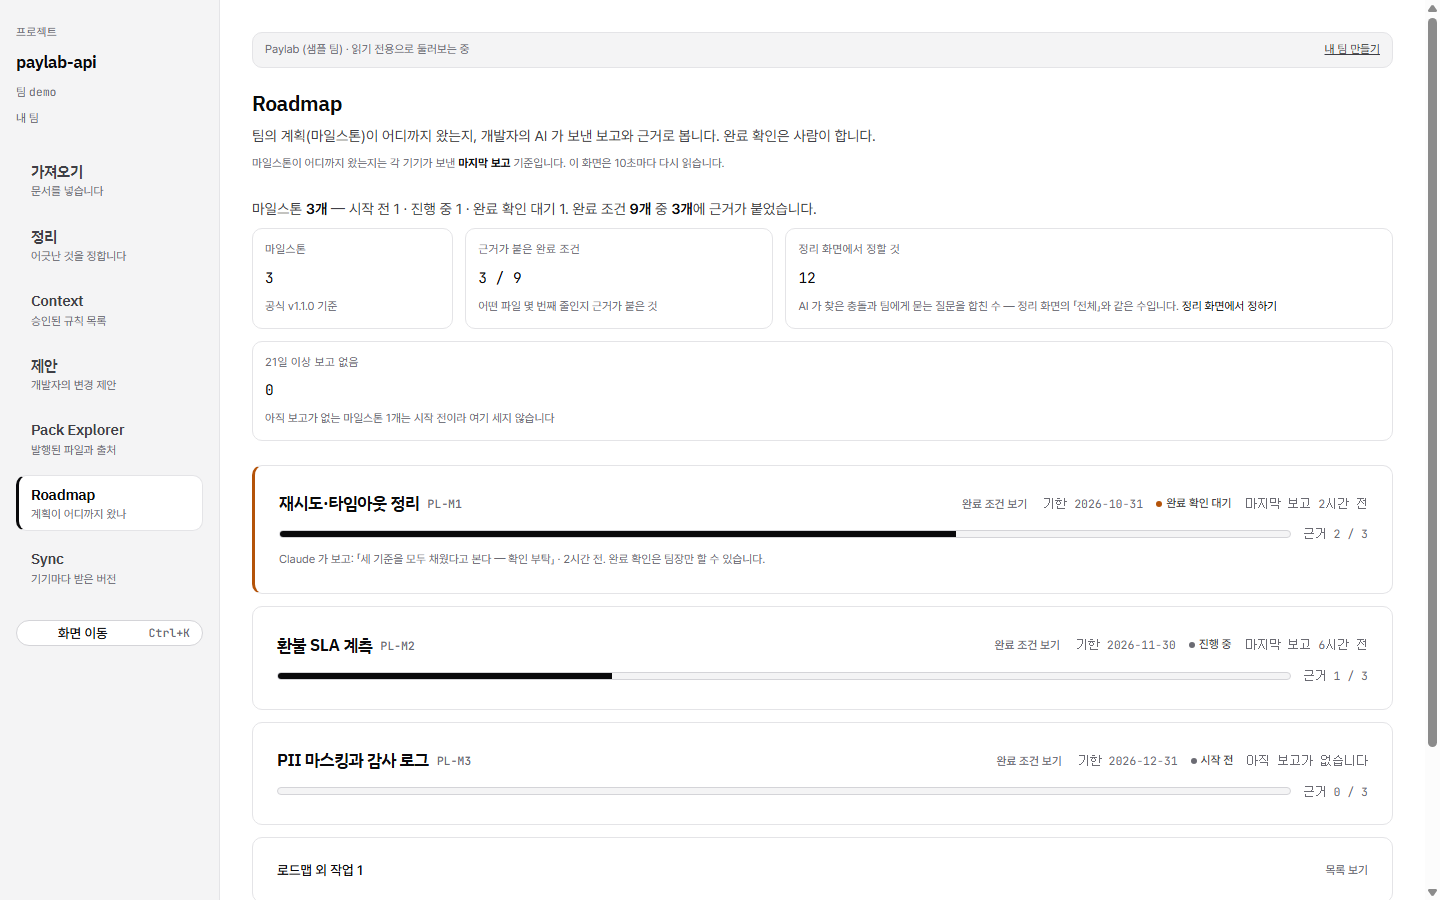
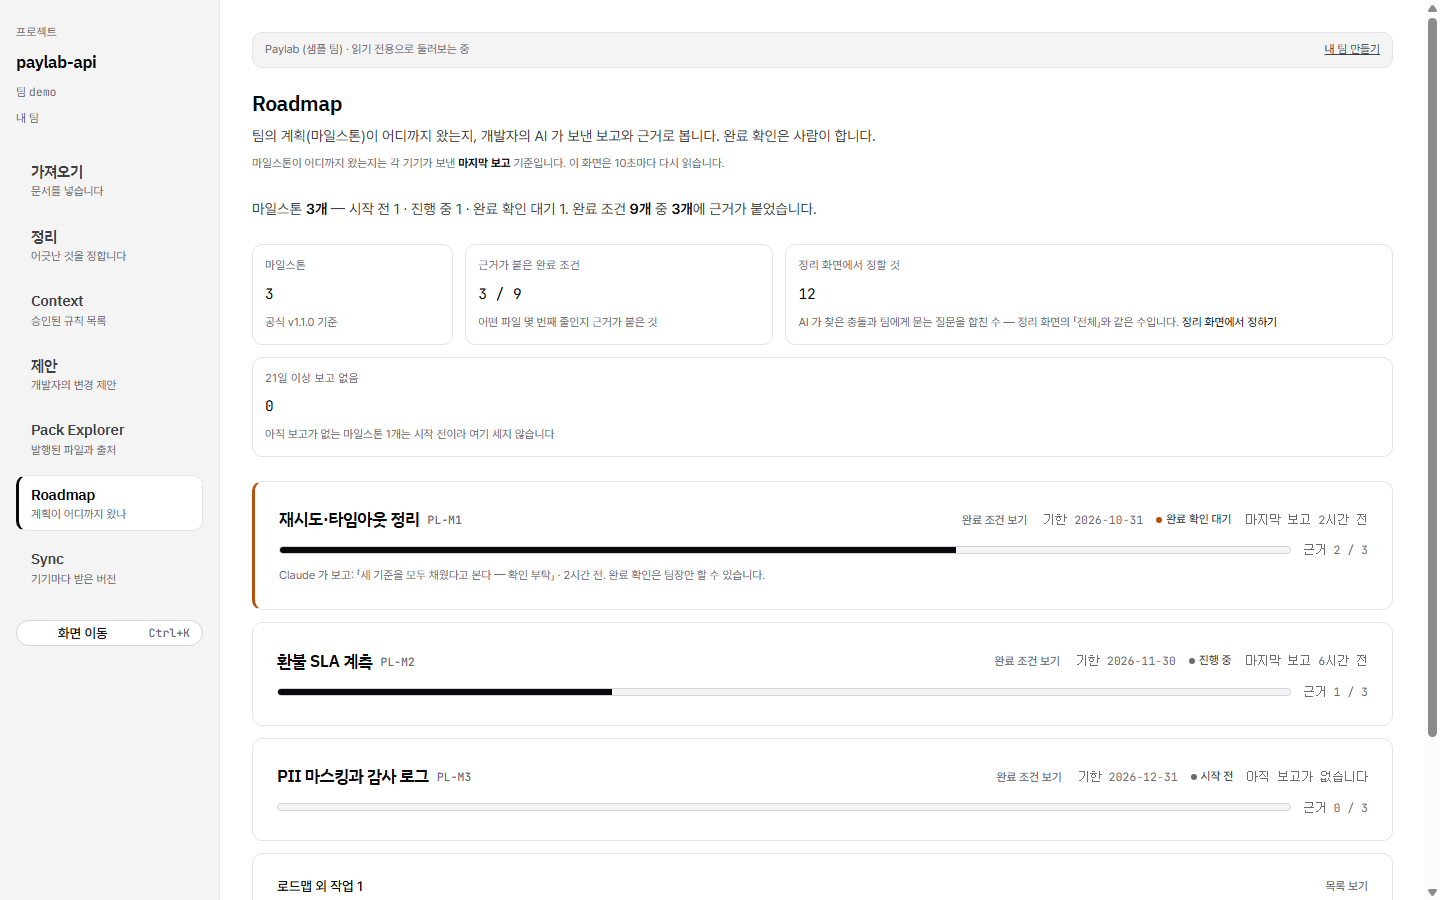
ux(web): 첫 줄이 뜻을 갖게 · 로드맵은 온 이유가 먼저 · 같은 사실을 세 번 말하지 않게
① 히어로 눈썹이 뜻 없는 영문이었다
   `Team Context for Claude Code` — 한국 비개발자가 이 사이트에서 가장 먼저 읽는
   글자인데 뜻이 없었다. 표제(「팀의 기억과 AI의 기억을 한 방향으로」)는 울림은
   있어도 이게 무슨 물건인지는 말하지 않으므로, 그 일은 이 줄이 해야 한다.
   → `Claude Code 를 쓰는 팀의 공용 규칙`. 빼지 않고 한글로 바꿨다 — 빼면
   「무슨 물건인가」를 말하는 자리가 화면에서 사라진다.
   모노와 자간도 뺐다: 모노로 짠 한글은 자간이 억지로 벌어져 「대충 만든 화면」의
   대표적인 모양이고, 자간 벌리기는 영문 눈썹의 기법이라 한글엔 해가 된다.
   og.png 도 같은 규칙으로 다시 그렸다 (링크 미리보기가 낡으면 안 된다).

② 로드맵 타일 넷이 마일스톤을 첫 화면 밖으로 밀었다
   375px 에서 타일이 세로로 쌓여 약 600px 을 먹었고, 보러 온 것(마일스톤)이
   화면 밖이었다. 좁은 폭에서 타일만 마일스톤 뒤로 보낸다 (order).
   ★ 숨기지 않은 이유 — 타일의 문장은 전부 참이다(「0 이 좋은 소식일 때는
     그렇다고 말한다」). 숨기면 화면이 폭에 따라 다른 말을 한다. 순서만 바꾸면
     잃는 것이 없고, 사실 한 줄(FactLine)은 그대로 맨 위에 남는다.
   그래서 RoadmapSummary 가 한 덩어리가 아니라 둘로 나간다 — 묶여 있으면
   떼어 놓을 방법이 없다. 게스트 코스는 언제나 맨 끝이어야 해서 같이 민다.
   잰 것: 마일스톤 시작 y≈1400 → 345. 셋이 전부 첫 화면에 들어온다.

③ 정리 화면이 같은 사실을 세 번 말했다
   머리글의 「AI가 찾은 … 3건 · … 기본 질문 9개」 한 줄을 지웠다. 바로 밑
   거르개가 같은 두 수(충돌 3 · 팀에게 묻는 질문 9)를 다시 말했고, 출처는 이미
   카드 표제(CONFLICT_HEADLINE.seed_question = 「프로젝트를 만들 때 심어 둔
   기본 질문입니다」)에 있었다.
   🔴 규칙(「AI 가 찾은 것과 씨앗 질문의 수를 합치지 마라」)은 그대로다 —
   거르개가 kind 마다 따로 세고 라벨을 같은 표에서 읽는다. 「전체 12」는
   합계지만 AI 가 찾았다고 말하지 않는다. 그 규칙이 이제 어디서 지켜지는지를
   화면 머리 주석과 DESIGN_BRIEF §4 에 옮겨 적었다.

tools/ci.ps1 GREEN (2026-09-11 22:27 · principles 9 · 관통 1529).
⚠ 첫 판은 plugin/contextops hooks.test 「stop 이 바꾼 경로」가 4670ms 로 빨갰다
  (FINDINGS 153 · 시간 민감). 단독 재실행 24/24 · 3.49초 초록 — plugin/ 은 이
  커밋에서 한 줄도 안 바뀌었다. 둘째 판은 dev 서버가 .next 를 물어 build 가
[…]

diff --git a/apps/web/src/app/t/[team]/p/[project]/review/page.tsx b/apps/web/src/app/t/[team]/p/[project]/review/page.tsx
@@ -2,7 +2,9 @@
 
 import { use, useState } from 'react'
 import {
-  CONFLICT_KIND_RULES, CONFLICT_SEVERITY_RANK, itemOutcomeOf,
+  //  ⚠ `CONFLICT_KIND_RULES` 는 이 화면이 더는 직접 읽지 않는다 (2026-09-11) — 종류를 가르는
+  //    일이 거르개의 `ConflictKindChip` 한 곳으로 갔다 (위 🔴).
+  CONFLICT_SEVERITY_RANK, itemOutcomeOf,
   type AnswerSlotKey, type ConflictChoice, type ConflictKind, type ContextItemView,
 } from '@contextops/schema'
 
@@ -24,10 +26,19 @@ import { ErrorState, ScreenEmpty, Skeleton } from '../../../../../../components/
 //  ★ 이 화면이 **결정이 일어나는 자리**다. 화면 3 이 넣은 것과 플러그인이 훑어 온 것이
 //    여기서 사람의 판단을 받고, 그 판단이 화면 5 의 발행으로 간다.
 //
-//  🔴 **머리의 숫자를 `kind` 로 가른다.** `GET /conflicts` 는 §7.2 탐지가 만든 카드와
+//  🔴 **수를 `kind` 로 가른다.** `GET /conflicts` 는 §7.2 탐지가 만든 카드와
 //     **프로젝트를 만들 때 심어 둔 씨앗 질문 10장**을 같이 낸다. 한 수로 합쳐 「AI 가 찾은
 //     결정이 필요한 것 14건」이라고 쓰면 그 문장은 거짓이다 — 열 장은 AI 가 찾은 것이
 //     아니다. 가르는 기준은 `CONFLICT_KIND_RULES[kind].byAi` 하나다 (배지도 같은 축).
+//
+//     ⚠ **그 일을 하는 자리는 이제 거르개(`KindFilter`) 하나다** (2026-09-11).
+//       예전엔 머리글에 `AI가 찾은 … 3건 · … 기본 질문 9개` 한 줄이 더 있었는데, 바로 밑
+//       거르개가 **같은 두 수**(충돌 3 · 팀에게 묻는 질문 9)를 다시 말했고 출처도 카드 표제
+//       (`CONFLICT_HEADLINE.seed_question` = 「프로젝트를 만들 때 심어 둔 기본 질문입니다」)가
+//       이미 말하고 있었다 — 한 화면이 같은 사실을 세 번 했다. 그 줄을 지웠다.
+//       ★ 거짓이 안 되는 이유 — 거르개는 `kind` 마다 따로 세고 라벨을 `ConflictKindChip`
+//         (= 같은 표)에서 읽는다. 「전체 12」는 합친 수지만 **AI 가 찾았다고 말하지 않는다.**
+//       ⚠ 그러니 머리글에 「AI 가 찾은 N건」 꼴의 **합계**를 다시 만들지 마라. 그 순간 거짓이 된다.
 //
 //  🔴 **결정한 카드를 목록에서 지우지 않는다.** 응답으로 온 행을 손에 든 목록에 갈아
 //     끼운다 — 지우면 방금 누른 사람이 자기가 무엇을 골랐는지 확인할 자리를 잃는다.
@@ -149,8 +160,6 @@ function ReviewView({
     })
   }
 
-  const byAi = all.filter((c) => CONFLICT_KIND_RULES[c.kind].byAi)
-  const asked = all.filter((c) => !CONFLICT_KIND_RULES[c.kind].byAi)
   const shown = (filter === null ? all : all.filter((c) => c.kind === filter)).slice().sort(bySeverity)
 
   return (
@@ -159,13 +168,6 @@ function ReviewView({
         <h1 className="text-section">정리</h1>
         {/* 사람 말 한 줄이 먼저 (2026-09-10 저녁). */}
         <p className="ink-2">문서끼리, 문서와 코드가 서로 다르게 말하는 자리를 AI 가 찾아 카드로 올렸습니다. 어느 쪽이 맞는지는 사람이 정합니다.</p>
-        {/* 🔴 두 수를 **따로** 낸다. 합치면 「AI 가 찾았다」가 씨앗 질문까지 삼킨다.
-            뒤 절은 카드의 표제(`CONFLICT_HEADLINE.seed_question`)와 같은 낱말 — 「사람이 미리 물어 둔」의 사람이 누구인지 안 읽혔다 (2026-09-11). */}
-        <p className="meta">
-          {cards.result.state === 'ready'
-            ? `AI가 찾은 결정이 필요한 것 ${byAi.length}건 · 프로젝트를 만들 때 심어 둔 기본 질문 ${asked.length}개`
-            : '결정을 기다리는 것을 세는 중입니다.'}
-        </p>
       </header>
 
       <DetectionPanel jobs={jobs} />

diff --git a/apps/web/src/components/roadmap.tsx b/apps/web/src/components/roadmap.tsx
@@ -74,11 +74,17 @@ export function RoadmapSummary({ roadmap, now, base }: { roadmap: Roadmap; now?:
   const stale = roadmap.milestones.filter((m) => isStaleReport(m.last_report_at, now))
   const never = roadmap.milestones.filter((m) => m.last_report_at === null)
 
+  //  🔴 **조각을 감싸지 않고 둘로 내보낸다** (2026-09-11). 한 `<div>` 로 묶으면 좁은 폭에서
+  //     타일 넷이 통째로 마일스톤 앞을 막는데, 그때 떼어 놓을 방법이 없다.
+  //     둘이 화면(`.main-inner`)의 형제가 되면 **타일만** 마일스톤 뒤로 보낼 수 있다 (`globals.css` 폭 질의).
+  //  ★ 왜 숨기지 않고 옮기나 — 타일이 말하는 것은 전부 참이고 (「0 이 좋은 소식일 때는 그렇다고 말한다」),
+  //    숨기면 화면이 폭에 따라 **다른 말**을 하게 된다. 순서만 바꾸면 잃는 것이 없다.
+  //  ⚠ 사실 한 줄은 **위에 남는다** — 「3개 중 무엇이 어디까지」는 타일이 아니라 이 문장이 말한다.
   return (
-    <div className="col-tight">
+    <>
       {/* 사실 한 줄 (2026-09-11) — 타일보다 먼저 「3개 중 무엇이 어디까지」가 읽힌다. 문장의 정본은 `fact-line.tsx`. */}
       <FactLine parts={roadmapFact(roadmap.milestones.map((m) => m.status), cover)} />
-      <div className="row wrap items-start">
+      <div className="row wrap items-start roadmap-tiles">
         <Tile label="마일스톤" value={roadmap.milestones.length} hint={`공식 v${roadmap.context_version ?? '—'} 기준`} />
         <Tile
           label="근거가 붙은 완료 조건"
@@ -113,7 +119,7 @@ export function RoadmapSummary({ roadmap, now, base }: { roadmap: Roadmap; now?:
           }
         />
       </div>
-    </div>
+    </>
   )
 }
 

diff --git a/apps/web/src/app/globals.css b/apps/web/src/app/globals.css
@@ -866,6 +866,14 @@ ul.col-tight, ol.col-tight { list-style: none; margin: 0; padding: 0; }
   /* 표가 화면보다 넓다고 말해 준다 — 신호가 없으면 잘린 표는 **고장으로 읽힌다**
      (Sync 5열의 「마지막 보고」가 글자 중간에 잘렸다 · 2026-09-11). */
   .scroll-table-hint { display: block; }
+  /* 🔴 Roadmap 의 요약 타일 넷은 **마일스톤 뒤로** 간다 (2026-09-11).
+     ★ 왜 — 375px 에서 타일이 세로로 쌓여 약 600px 을 먹었고, 사람이 **보러 온 것**(마일스톤)이
+       첫 화면 밖으로 밀렸다. 넓은 화면에서는 한 줄이라 아무 문제가 없다.
+     ★ 왜 숨기지 않나 — 타일의 문장은 전부 참이다. 숨기면 화면이 폭에 따라 다른 말을 한다.
+       순서만 바꾸면 잃는 것이 없다 — 사실 한 줄(`FactLine`)은 그대로 맨 위에 남는다.
+     ⚠ 게스트 코스는 **언제나 맨 끝**이다. 타일이 양수 order 를 가지면 코스도 밀려야 한다. */
+  .roadmap-tiles { order: 1; }
+  .demo-tour { order: 9; }
   /* 🔴 표 안의 모노 칸은 줄바꿈하지 않는다 — 375px 에서 `2026-09-11 12:50` 이 **세 줄**로,
      `mac-haeun-old` 가 **세 줄**로 쪼개져 한 행이 250px 이 됐다 (2026-09-11).
      ★ 표가 넓어지는 것은 받아들인다 — 바깥이 `.scroll-x` 이고 안내가 밀라고 말한다.

diff --git a/apps/web/scripts/og-image.ts b/apps/web/scripts/og-image.ts
@@ -56,7 +56,9 @@ html,body{margin:0;width:${width}px;height:${height}px;background:var(--bg);colo
 .card{box-sizing:border-box;width:${width}px;height:${height}px;padding:56px 80px 52px;display:flex;flex-direction:column;justify-content:space-between}
 .brand{display:flex;align-items:center;gap:14px;font-family:var(--font-display);font-weight:600;font-size:28px;letter-spacing:-.02em;color:var(--ink)}
 .brand svg{width:40px;height:40px;display:block}
-.eyebrow{font-family:var(--font-mono);font-size:21px;letter-spacing:.04em;color:var(--ink-3)}
+/* 눈썹이 한글이 되면서 모노·자간을 뺐다 (2026-09-11) — 랜딩의 .eyebrow 와 같은 이유·같은 모양.
+   ⚠ 이 CSS 는 템플릿 리터럴 안이다. 주석에 백틱을 쓰면 문자열이 거기서 끊긴다. */
+.eyebrow{font-size:21px;color:var(--ink-3)}
 h1{margin:16px 0 0;font-family:var(--font-display);font-size:74px;line-height:1.08;font-weight:600;letter-spacing:-.03em;color:var(--ink);max-width:12em;text-wrap:balance}
 p{margin:26px 0 0;font-size:27px;line-height:1.55;color:var(--ink-2);max-width:880px}
 .foot{display:flex;justify-content:space-between;align-items:center;font-size:22px;color:var(--ink-3);border-top:1px solid var(--line-hi);padding-top:22px}

diff --git a/apps/web/src/lib/web/site.ts b/apps/web/src/lib/web/site.ts
@@ -12,7 +12,16 @@
 
 export const SITE = {
   name: 'ContextOps',
-  eyebrow: 'Team Context for Claude Code',
+  /**
+   * 표제 위 한 줄 — **이게 무엇인가**를 먼저 말한다.
+   *
+   * 🔴 2026-09-11: `Team Context for Claude Code` 였다. 한국 비개발자가 이 사이트에서
+   *    **가장 먼저 읽는 글자**인데 뜻이 없었다 — 표제(「팀의 기억과 AI의 기억을 한 방향으로」)는
+   *    울림은 있어도 **이게 무슨 물건인지는 말하지 않으므로**, 그 일을 이 줄이 해야 한다.
+   * ⚠ 빼지 않고 한글로 바꿨다. 빼면 「무슨 물건인가」를 말하는 자리가 화면에서 사라진다.
+   * ⚠ 「Claude Code」는 고유명사라 그대로 둔다 — 이 제품의 대상을 가리키는 이름이다.
+   */
+  eyebrow: 'Claude Code 를 쓰는 팀의 공용 규칙',
   /** 랜딩 제목과 같은 문장이다 (`LANDING_HEAD.title` 이 이 값을 읽는다). */
   //  2026-09-10 사용자 지시: 「팀의 기억과 AI 기억을 한 방향으로」 결로 — 짧고 곧게. 「지식」→「기억」, 「같은」→「한」.
   tagline: '팀의 기억과 AI의 기억을 한 방향으로',

diff --git a/apps/web/src/components/landing.module.css b/apps/web/src/components/landing.module.css
@@ -75,10 +75,11 @@
   gap: var(--sp-5);
 }
 
+/* 🔴 모노가 아니다 (2026-09-11). 이 줄이 한글이 되면서 바꿨다 — **모노로 짠 한글**은
+   자간이 억지로 벌어져 「대충 만든 화면」의 대표적인 모양이다 (Taste anti-slop 지침과 같은 결).
+   자간(letter-spacing)도 뺐다 — 영문 소문자 눈썹을 벌리는 기법이라 한글에는 해가 된다. */
 .eyebrow {
-  font-family: var(--font-mono);
   font-size: var(--fs-label);
-  letter-spacing: 0.4px;
   color: var(--ink-3);
 }
 

diff --git a/docs/DESIGN_BRIEF.md b/docs/DESIGN_BRIEF.md
@@ -384,7 +384,14 @@
 > ⚠ 이 절의 예시 문구는 **목업용**이다. 픽스처 정본은 `docs/SPEC.md` §10.1(paylab)이니
 > 화면을 만들 때 **paylab 데이터로 채운다.**
 
-상단: `AI가 찾은 결정이 필요한 것 4건` + 필터 칩(충돌 / 오래됨 / 중복 / 문서↔코드 / 열린 질문).
+상단: 표제 `정리` + 사람 말 한 줄 + 필터 칩(충돌 / 오래됨 / 중복 / 문서↔코드 / 열린 질문).
+
+> 🔴 **2026-09-11: 「AI가 찾은 결정이 필요한 것 N건 · … 기본 질문 M개」 줄을 지웠다.**
+> 바로 밑 필터 칩이 **같은 두 수**(충돌 3 · 팀에게 묻는 질문 9)를 다시 말했고, 출처(「프로젝트를 만들 때
+> 심어 둔 기본 질문입니다」)는 이미 **카드 표제**(`CONFLICT_HEADLINE.seed_question`)에 있었다 —
+> 한 화면이 같은 사실을 세 번 했다. 🔴 규칙(「AI 가 찾은 것과 씨앗 질문의 수를 합치지 마라」)은
+> 그대로다: 거르개가 `kind` 마다 따로 세므로 지켜진다. 「전체 12」는 합계지만 AI 가 찾았다고 말하지 않는다.
+> ⚠ 머리글에 「AI 가 찾은 N건」 꼴의 **합계**를 다시 만들지 마라 — 그 순간 거짓이 된다.
 **Conflict 카드** (AiBadge 부착):
 - 제목: `북스택 검색 API — 상태가 서로 다릅니다`
 - 2열 본문: 좌 `A · 현재상태.md L41` 인용 `"카카오 실제 API 응답은 아직 확인하지 못했다."` / 우 `B · QC결과.md L12` 인용 `"2026-08-04 실제 API 검색 10권을 검증했다. ISBN 13자리. 분야 정보 없음."`
